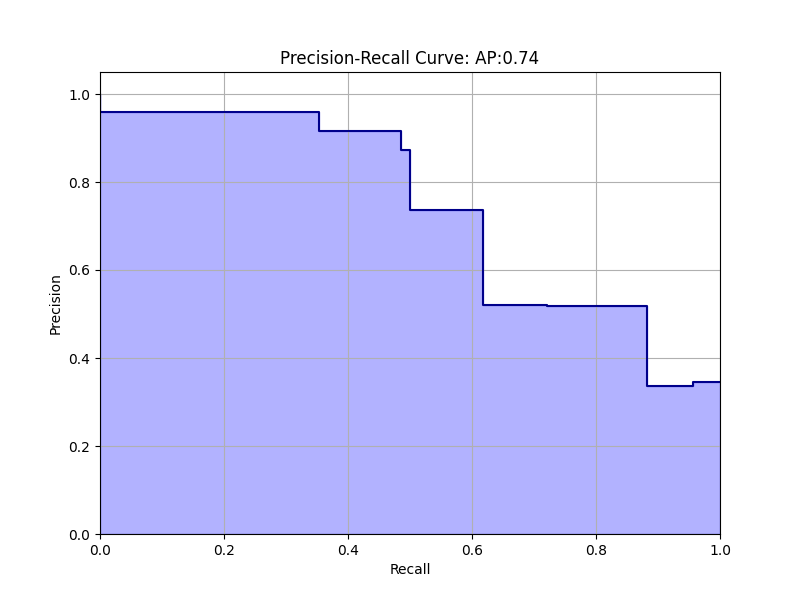
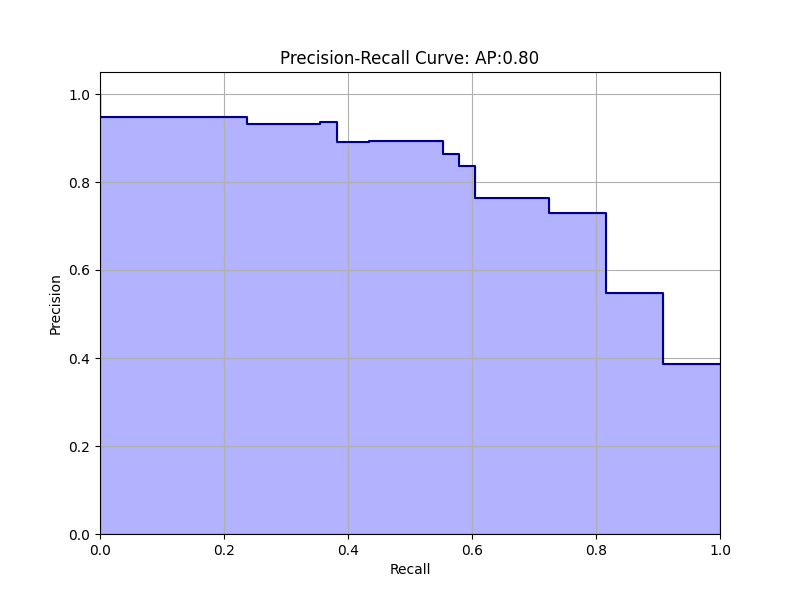
Add summary generation function

Changed region(s): [[0.125, 0.18, 0.9062, 0.66], [0.625, 0.09, 0.6875, 0.12]]

diff --git a/titanic/titanic_survival_prediction.py b/titanic/titanic_survival_prediction.py
@@ -126,6 +126,29 @@ def plot_precision_recall_curve(precision, recall, average_precision, model_name
     plt.show()
 
 
+def generate_classification_metrics(estimator, model_name, y_pred, y_pred_probs, X_test_scaled):
+    print(f"============= {model_name} Model Evaluation =============")
+    file_name = "_".join(model_name.lower().split(" "))
+    print(f"Confusion Matrix: \n {confusion_matrix(y_test, y_pred)}")
+    _ = ConfusionMatrixDisplay.from_estimator(estimator, X_test_scaled, y_test)
+    plt.savefig(f"{file_name}_classifier_confusion_matrix.png")
+    print(f"Classification Report: \n {classification_report(y_test, y_pred)}")
+    print(f"{model_name} Precision Score: {precision_score(y_test, y_pred):.2f}")
+    print(f"{model_name} Recall Score {recall_score(y_test, y_pred):.2f}")
+    print(f"{model_name} Accuracy Score {accuracy_score(y_test, y_pred):.2f}")
+    print(f"{model_name} F1 Score {f1_score(y_test, y_pred):.2f}")
+
+    # Generate Plots
+    plot_roc_curve(y_test, y_pred_probs, model_name=model_name)
+    precision, recall, _ = precision_recall_curve(y_test, y_pred_probs)
+    average_precision = average_precision_score(y_test, y_pred_probs)
+    plot_precision_recall_curve(precision=precision,
+                                recall=recall,
+                                average_precision=average_precision,
+                                model_name=model_name)
+    print("=" * 80)
+
+
 def train_logistic_regression():
     steps = [
         ("scaler", StandardScaler()),
@@ -153,20 +176,8 @@ def train_logistic_regression():
     y_pred = logreg_model.predict(X_test_scaled)
     y_pred_probs = logreg_model.predict_proba(X_test_scaled)[:, 1]
 
-    print(f"============= Logistic Regression Model Evaluation =============")
-    print(f"Confusion Matrix: \n {confusion_matrix(y_test, y_pred)}")
-    _ = ConfusionMatrixDisplay.from_estimator(logreg_model, X_test_scaled, y_test)
-    plt.savefig(f"logistic_regression_confusion_matrix.png")
-    print(f"Classification Report: \n {classification_report(y_test, y_pred)}")
-
-    # Generate Plots
-    plot_roc_curve(y_test, y_pred_probs, model_name="Logistic Regression")
-    plot_feature_importance(logreg_model.named_steps["logreg"].coef_[0], model_name="Logistic Regression")
-
-    precision, recall, _ = precision_recall_curve(y_test, y_pred_probs)
-    average_precision = average_precision_score(y_test, y_pred_probs)
-    plot_precision_recall_curve(precision=precision, recall=recall,
-                                average_precision=average_precision, model_name="Logistic Regression")
+    generate_classification_metrics(estimator=logreg_model, model_name="Logistic Regression",
+                                    y_pred=y_pred, y_pred_probs=y_pred_probs, X_test_scaled=X_test_scaled)
 
 
 def train_knn_classifier():
@@ -194,22 +205,8 @@ def train_knn_classifier():
     y_pred = knn_model.predict(X_test_scaled)
     y_pred_probs = knn_model.predict_proba(X_test_scaled)[:, 1]
 
-    print(f"============= KNeighborsClassifier Model Evaluation =============")
-    print(f"Confusion Matrix: \n {confusion_matrix(y_test, y_pred)}")
-    _ = ConfusionMatrixDisplay.from_estimator(knn_model, X_test_scaled, y_test)
-    plt.savefig(f"knn_classifier_confusion_matrix.png")
-    print(f"Classification Report: \n {classification_report(y_test, y_pred)}")
-    print(f"KNN Precision Score: {precision_score(y_test, y_pred):.2f}")
-    print(f"KNN Recall Score {recall_score(y_test, y_pred):.2f}")
-    print(f"KNN Accuracy Score {accuracy_score(y_test, y_pred):.2f}")
-    print(f"KNN F1 Score {f1_score(y_test, y_pred):.2f}")
-
-    # Generate Plots
-    plot_roc_curve(y_test, y_pred_probs, model_name="Logistic Regression")
-    precision, recall, _ = precision_recall_curve(y_test, y_pred_probs)
-    average_precision = average_precision_score(y_test, y_pred_probs)
-    plot_precision_recall_curve(precision=precision, recall=recall,
-                                average_precision=average_precision, model_name="KNeighborsClassifier")
+    generate_classification_metrics(estimator=knn_model, model_name="KNeighborsClassifier",
+                                    y_pred=y_pred, y_pred_probs=y_pred_probs, X_test_scaled=X_test_scaled)
 
 
 def unconstrained_dt_classifier():
@@ -226,6 +223,7 @@ def unconstrained_dt_classifier():
     print(f"Decision Tree Recall Score {recall_score(y_test, y_pred):.2f}")
     print(f"Decision Tree Accuracy Score {accuracy_score(y_test, y_pred):.2f}")
     print(f"Decision Tree F1 Score {f1_score(y_test, y_pred):.2f}")
+    print(f"=" * 80)
 
 
 def train_decsion_tree_classifier():
@@ -251,22 +249,8 @@ def train_decsion_tree_classifier():
     y_pred = dt_clf.predict(X_test)
     y_pred_probs = dt_clf.predict_proba(X_test)[:, 1]
 
-    print(f"============= Decision Tree Classifier Evaluation =============")
-    print(f"Confusion Matrix: \n {confusion_matrix(y_test, y_pred)}")
-    _ = ConfusionMatrixDisplay.from_estimator(dt_clf, X_test, y_test)
-    plt.savefig(f"decision_tree_classifier_confusion_matrix.png")
-    print(f"Classification Report: \n {classification_report(y_test, y_pred)}")
-    print(f"Decision Tree Precision Score: {precision_score(y_test, y_pred):.2f}")
-    print(f"Decision Tree Recall Score {recall_score(y_test, y_pred):.2f}")
-    print(f"Decision Tree Accuracy Score {accuracy_score(y_test, y_pred):.2f}")
-    print(f"Decision Tree F1 Score {f1_score(y_test, y_pred):.2f}")
-
-    # Generate Plots
-    plot_roc_curve(y_test, y_pred_probs, model_name="Logistic Regression")
-    precision, recall, _ = precision_recall_curve(y_test, y_pred_probs)
-    average_precision = average_precision_score(y_test, y_pred_probs)
-    plot_precision_recall_curve(precision=precision, recall=recall,
-                                average_precision=average_precision, model_name="Decision Tree Classfier")
+    generate_classification_metrics(estimator=dt_clf, model_name="Decision Tree",
+                                    y_pred=y_pred, y_pred_probs=y_pred_probs, X_test_scaled=X_test)
 
 
 def train_dt_bagging_classifier():
@@ -274,21 +258,15 @@ def train_dt_bagging_classifier():
     bc = BaggingClassifier(estimator=dt_clf, n_estimators=300, n_jobs=-1)
     bc.fit(X_train, y_train)
     y_pred = bc.predict(X_test)
+    y_pred_probs = bc.predict_proba(X_test)[:, 1]
 
-    print(f"============= Bagging Classifier Evaluation =============")
-    print(f"Confusion Matrix: \n {confusion_matrix(y_test, y_pred)}")
-    _ = ConfusionMatrixDisplay.from_estimator(bc, X_test, y_test)
-    plt.savefig(f"bagging_classifier_confusion_matrix.png")
-    print(f"Classification Report: \n {classification_report(y_test, y_pred)}")
-    print(f"Decision Tree Precision Score: {precision_score(y_test, y_pred):.2f}")
-    print(f"Decision Tree Recall Score {recall_score(y_test, y_pred):.2f}")
-    print(f"Decision Tree Accuracy Score {accuracy_score(y_test, y_pred):.2f}")
-    print(f"Decision Tree F1 Score {f1_score(y_test, y_pred):.2f}")
+    generate_classification_metrics(estimator=bc, model_name="Bagging With Decision Tree",
+                                    y_pred=y_pred, y_pred_probs=y_pred_probs, X_test_scaled=X_test)
 
 
 if __name__ == "__main__":
     load_and_preprocess_dataset()
-    # train_logistic_regression()
-    # train_knn_classifier()
-    # train_decsion_tree_classifier()
+    train_logistic_regression()
+    train_knn_classifier()
+    train_decsion_tree_classifier()
     train_dt_bagging_classifier()
